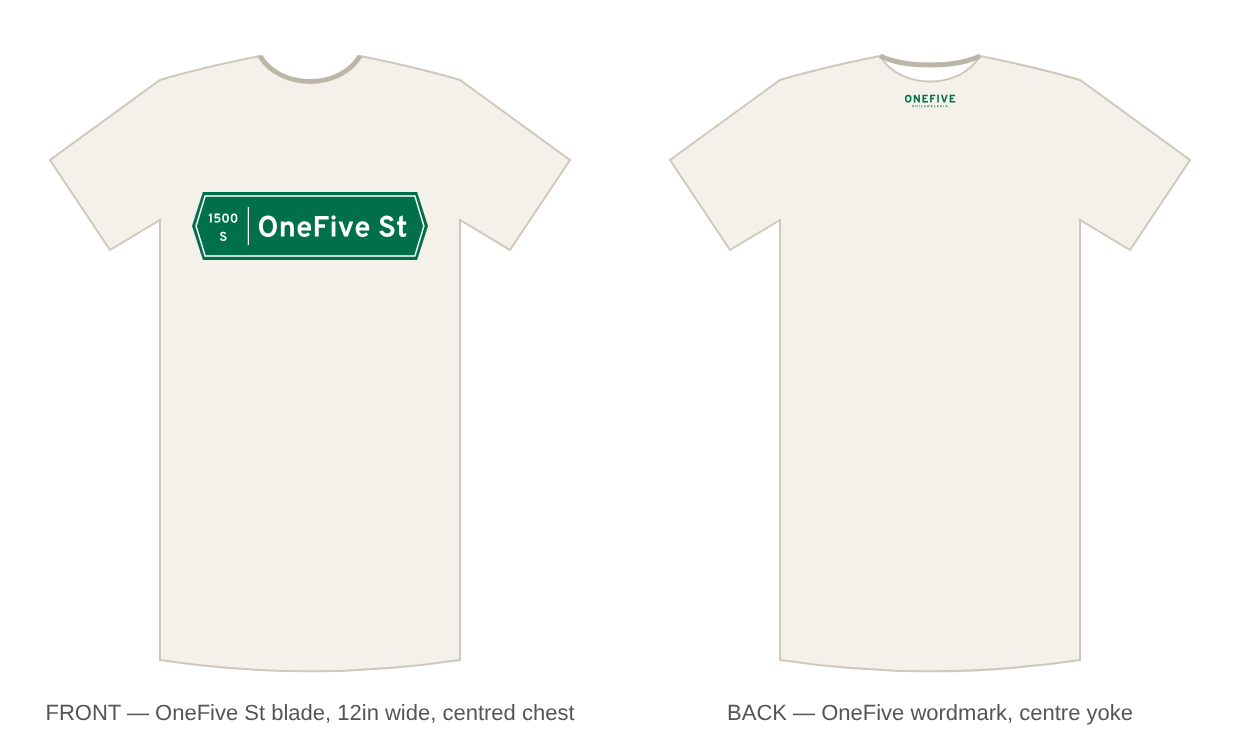
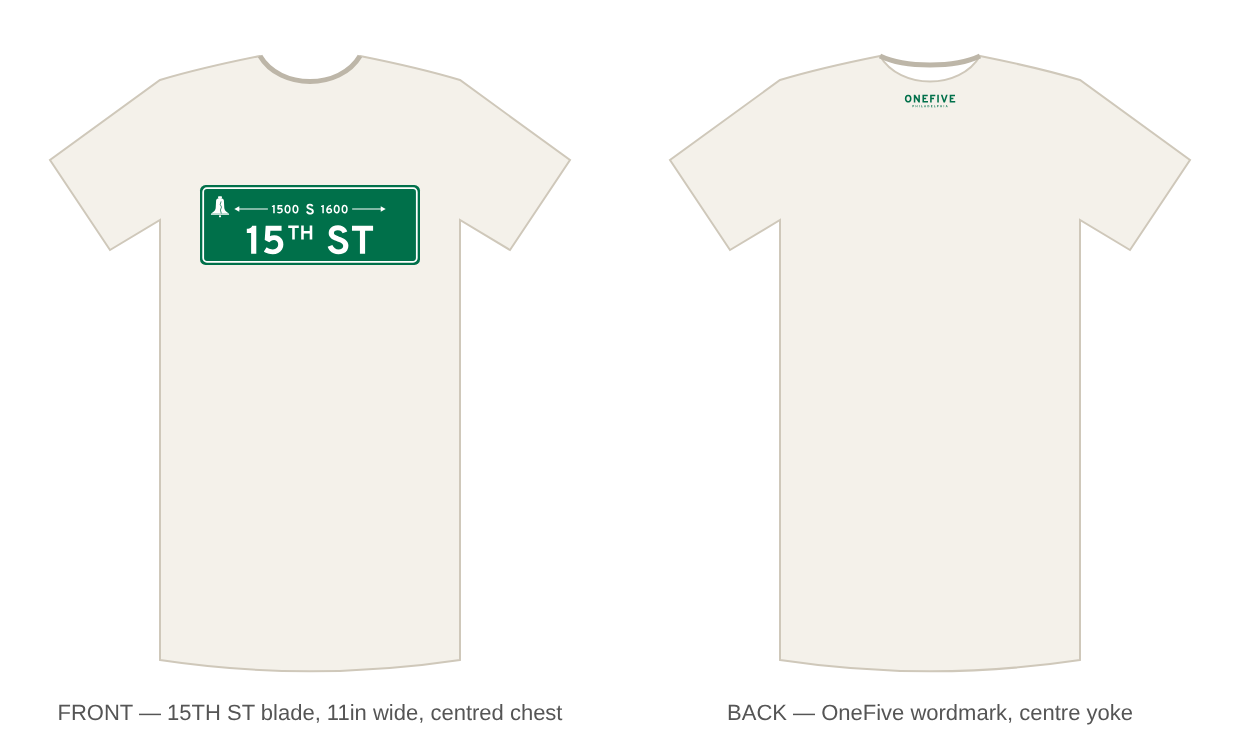
Redraw tee front as a true Philly street blade (15TH ST)
Claude-Session: https://claude.ai/code/session_019cGHCWsGXbCMTpq7Vq5rGj

Changed region(s): [[0.0306, 0.9324, 0.4597, 0.9946], [0.1532, 0.2486, 0.3677, 0.373]]

diff --git a/merch/tshirt/gen.py b/merch/tshirt/gen.py
@@ -30,35 +30,65 @@ def text_path(s, font, size, x, y, anchor="start", tracking=0):
         cx += hmtx[n][0] * sc + tracking * size
     return pen.getCommands(), width
 
-def sign_shape(x, y, w, h, cut):
-    # Elongated hexagon: pointed ends, like the city's six-sided blades.
-    return (f"M{x+cut},{y} L{x+w-cut},{y} L{x+w},{y+h/2} L{x+w-cut},{y+h} "
-            f"L{x+cut},{y+h} L{x},{y+h/2} Z")
+def arrow(x, y, length, size, direction):
+    """Long-shaft arrow as on the city's block-number band; y is the centre line."""
+    t, hl = size * 0.09, size * 0.42
+    s = 1 if direction > 0 else -1
+    tip = x + s * length
+    base = tip - s * hl
+    return (f'<path d="M{x},{y-t/2} L{base},{y-t/2} L{base},{y-hl*0.55} L{tip},{y} '
+            f'L{base},{y+hl*0.55} L{base},{y+t/2} L{x},{y+t/2} Z" fill="{WHITE}"/>')
 
-def blade(x, y, w, h, name, block, dirn):
-    cut = h * 0.16
-    inset = h * 0.06
-    parts = [f'<path d="{sign_shape(x, y, w, h, cut)}" fill="{GREEN}"/>']
-    # thin white keyline
-    ix, iy, iw, ih = x + inset, y + inset, w - 2 * inset, h - 2 * inset
-    parts.append(f'<path d="{sign_shape(ix, iy, iw, ih, cut - inset * 0.45)}" fill="none" '
-                 f'stroke="{WHITE}" stroke-width="{h*0.022:.2f}" stroke-linejoin="miter"/>')
-    # block number + direction, stacked at the left end
-    bx = x + cut + h * 0.3
-    d, _ = text_path(block, "b", h * 0.19, bx, y + h * 0.45, "middle")
+def liberty_bell(cx, cy, size):
+    """Liberty Bell mark, drawn in a 100-unit box centred on (cx, cy)."""
+    k = size / 100
+    tf = f'transform="translate({cx-50*k:.2f},{cy-50*k:.2f}) scale({k:.4f})"'
+    return (f'<g {tf}><rect x="41" y="2" width="18" height="9" rx="2" fill="{WHITE}"/>'
+            f'<path d="M32,22 C32,6 68,6 68,22 L70,58 C72,72 84,76 90,82 L10,82 '
+            f'C16,76 28,72 30,58 Z" fill="{WHITE}"/>'
+            f'<rect x="8" y="82" width="84" height="6" rx="2" fill="{WHITE}"/>'
+            f'<circle cx="50" cy="95" r="5" fill="{WHITE}"/>'
+            f'<path d="M55,26 L51,40 L57,52 L52,66 L56,82" fill="none" stroke="{GREEN}" '
+            f'stroke-width="3.5" stroke-linejoin="bevel"/></g>')
+
+def blade(x, y, w, h, num, suffix, kind, block_l, dirn, block_r):
+    r, inset = h * 0.07, h * 0.04
+    sw = h * 0.022
+    parts = [f'<rect x="{x}" y="{y}" width="{w}" height="{h}" rx="{r:.2f}" fill="{GREEN}"/>',
+             f'<rect x="{x+inset:.2f}" y="{y+inset:.2f}" width="{w-2*inset:.2f}" height="{h-2*inset:.2f}" '
+             f'rx="{r-inset*0.6:.2f}" fill="none" stroke="{WHITE}" stroke-width="{sw:.2f}"/>']
+    # Liberty Bell, top-left corner
+    parts.append(liberty_bell(x + h * 0.25, y + h * 0.27, h * 0.27))
+    # block-number band:  <-- 1500  S  1600 -->
+    bs, by = h * 0.15, y + h * 0.3
+    mid = x + w / 2
+    d, wd = text_path(dirn, "b", bs * 1.25, mid, by + bs * 0.45, "middle")
     parts.append(f'<path d="{d}" fill="{WHITE}"/>')
-    d, _ = text_path(dirn, "b", h * 0.19, bx, y + h * 0.72, "middle")
+    gap = bs * 0.5
+    d, wl = text_path(block_l, "b", bs, mid - wd / 2 - gap, by + bs * 0.36, "end")
     parts.append(f'<path d="{d}" fill="{WHITE}"/>')
-    # divider
-    dx = bx + h * 0.36
-    parts.append(f'<rect x="{dx:.2f}" y="{y+h*0.22:.2f}" width="{h*0.018:.2f}" height="{h*0.56:.2f}" fill="{WHITE}"/>')
-    # street name, sized to fit and centred in the remaining field
-    left, right = dx + h * 0.14, x + w - cut - h * 0.14
-    size = h * 0.56
-    _, tw = text_path(name, "b", size, 0, 0)
-    size = min(size, size * (right - left) / tw)
-    d, _ = text_path(name, "b", size, (left + right) / 2, y + h / 2 + size * 0.36, "middle")
+    d, wr = text_path(block_r, "b", bs, mid + wd / 2 + gap, by + bs * 0.36, "start")
     parts.append(f'<path d="{d}" fill="{WHITE}"/>')
+    alen = h * 0.42
+    lx = mid - wd / 2 - gap - wl - gap * 0.6
+    rx = mid + wd / 2 + gap + wr + gap * 0.6
+    parts.append(arrow(lx, by, alen, bs, -1))
+    parts.append(arrow(rx, by, alen, bs, 1))
+    # street name:  15TH ST  (raised, smaller suffix)
+    ns, base = h * 0.5, y + h * 0.86
+    ss = ns * 0.5
+    _, w1 = text_path(num, "b", ns, 0, 0)
+    _, w2 = text_path(suffix, "b", ss, 0, 0)
+    _, w3 = text_path(kind, "b", ns, 0, 0)
+    sp = ns * 0.3
+    total = w1 + ns * 0.04 + w2 + sp + w3
+    cx = mid - total / 2
+    for txt, size, yy, adv in ((num, ns, base, w1 + ns * 0.04),
+                               (suffix, ss, base - ns * 0.36, w2 + sp),
+                               (kind, ns, base, w3)):
+        d, _ = text_path(txt, "b", size, cx, yy)
+        parts.append(f'<path d="{d}" fill="{WHITE}"/>')
+        cx += adv
     return "\n  ".join(parts)
 
 def svg(w, h, body, bg=None):
@@ -66,9 +96,9 @@ def svg(w, h, body, bg=None):
     return (f'<svg xmlns="http://www.w3.org/2000/svg" viewBox="0 0 {w} {h}" '
             f'width="{w/100}in" height="{h/100}in">\n  {bgr}{body}\n</svg>\n')
 
-# ---- FRONT: 12in x 3.6in print (100 units / inch) ----
-FW, FH = 1200, 360
-front = blade(10, 10, FW - 20, FH - 20, "OneFive St", "1500", "S")
+# ---- FRONT: 11in x 4in print (100 units / inch) ----
+FW, FH = 1100, 400
+front = blade(0, 0, FW, FH, "15", "TH", "ST", "1500", "S", "1600")
 open(f"{OUT}/front-street-sign.svg", "w").write(svg(FW, FH, front))
 
 # ---- BACK YOKE: 3.5in wide wordmark, centred below collar ----

diff --git a/merch/tshirt/mock.py b/merch/tshirt/mock.py
@@ -13,11 +13,11 @@ def tee(x,label,art,back):
  {art}
  <text x="300" y="700" text-anchor="middle" font-family="sans-serif" font-size="22" fill="#555">{label}</text></g>'''
 # front: 12in sign -> 240px wide on 600px tee (approx 20px/in)
-fa=f'<g transform="translate(180,170) scale(0.2)">{front}</g>'
+fa=f'<g transform="translate(190,165) scale(0.2)">{front}</g>'
 ya=f'<g transform="translate(260,72) scale(0.2)">{yoke}</g>'
 svg=f'''<svg xmlns="http://www.w3.org/2000/svg" viewBox="0 0 1240 740" width="1240" height="740">
 <rect width="1240" height="740" fill="#ffffff"/>
-{tee(10,"FRONT — OneFive St blade, 12in wide, centred chest",fa,False)}
+{tee(10,"FRONT — 15TH ST blade, 11in wide, centred chest",fa,False)}
 {tee(630,"BACK — OneFive wordmark, centre yoke",ya,True)}
 </svg>'''
 open(f"{d}/mockup.svg","w").write(svg)

diff --git a/merch/tshirt/README.md b/merch/tshirt/README.md
@@ -4,10 +4,10 @@
 
 | File | Placement | Size | Ink |
 |---|---|---|---|
-| `front-street-sign.svg` | Front, centred chest, ~3.5in below collar | 12in × 3.6in | Green `#00704A` (PMS 3415 C), white |
+| `front-street-sign.svg` | Front, centred chest, ~3.5in below collar | 11in × 4in | Green `#00704A` (PMS 3415 C), white |
 | `back-yoke-onefive.svg` | Back, centre yoke, ~1in below collar seam | 4in × 0.8in | Green `#00704A` |
 
-The front is a Philadelphia six-sided green street blade reading **OneFive St**, with the "1500 / S" block number on the left end (15 = OneFive). The white keyline and text knock out of the green, so on a white or natural tee the white can be left as shirt colour (one-colour print) or printed as white underbase.
+The front recreates a Philadelphia street blade: a green rounded rectangle with a white border, the Liberty Bell mark, the block-number band (`← 1500 S 1600 →`) and **15TH ST** with the raised "TH". 15th Street = OneFive. Everything white knocks out of the green, so on a white or natural tee it can print as one colour.
 
 All text is converted to outlines — no fonts needed to print. Shown on a natural tee.
 
